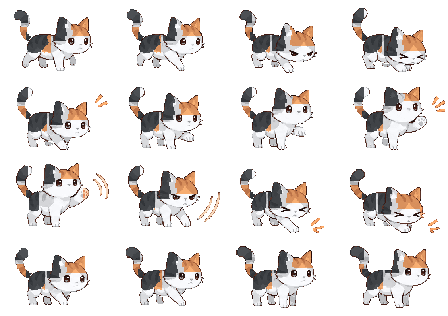
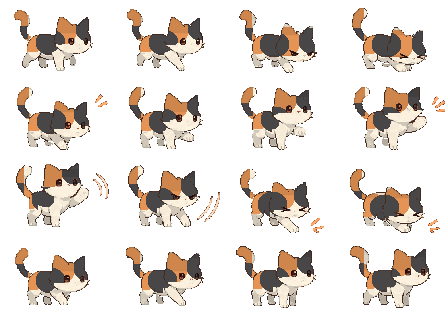
v2.5.0: individual jackpot reel locks and distinct coat patterns

diff --git a/assets/jackpot-motion.js b/assets/jackpot-motion.js
@@ -13,8 +13,8 @@ function tone(hz,offset,duration,volume=.045,type="triangle"){
  try{const t=context.currentTime+Math.max(0,offset),osc=context.createOscillator(),gain=context.createGain();osc.type=type;osc.frequency.value=hz;gain.gain.setValueAtTime(.0001,t);gain.gain.exponentialRampToValueAtTime(volume,t+.012);gain.gain.exponentialRampToValueAtTime(.0001,t+duration);osc.connect(gain);gain.connect(context.destination);osc.start(t);osc.stop(t+duration+.02);}catch{}
 }
 function beat(i){
- const notes=[392,494,587,698,880];
- tone(notes[i],0,.18,.042);tone(notes[i]*2,0,.12,.014,"sine");
+ const notes=[392,494,587,698,880,1046.5];
+ const note=notes[Math.min(i,notes.length-1)];tone(note,0,.23,.052);tone(note*2,0,.12,.014,"sine");
 }
 function fanfare(){
  // Original short synthesized flourish; no external audio or licensed recordings.
@@ -41,19 +41,23 @@ async function run({stage,windows,status,spin}){
  const frame=buildMarquee(stage),bulbs=[...frame.children];stage.classList.add("j-show");
  let overlay=null;
  try{
-  const timings=[360,320,270,235,210];
-  for(let i=0;i<timings.length;i++){
-    beat(i);
-    bulbs.forEach((bulb,j)=>bulb.classList.toggle("lit",j%3===i%3));
-    windows.forEach((w,j)=>w.classList.toggle("j-focus",j===Math.min(windows.length-1,Math.floor(i*windows.length/5))));
-    if(status)status.textContent="● ".repeat(i+1).trim();
-    await wait(reduced?90:timings[i]);
-  }
-  windows.forEach(w=>{w.classList.remove("j-focus");w.classList.add("j-spin");});
-  bulbs.forEach(b=>b.classList.add("lit"));
+  bulbs.forEach((bulb,j)=>bulb.classList.toggle("lit",j%3===0));
+  await wait(reduced?90:350);
+  windows.forEach(w=>w.classList.add("j-spin"));
   if(status)status.textContent="…";
-  await spin();
-  windows.forEach(w=>{w.classList.remove("j-spin","j-await");w.classList.add("j-won");});
+  const locked=new Set();
+  const onLock=i=>{
+    if(locked.has(i)||!windows[i])return;
+    locked.add(i);
+    windows[i].classList.remove("j-spin","j-await","j-focus");
+    windows[i].classList.add("j-won");
+    beat(i);
+    bulbs.forEach((bulb,j)=>bulb.classList.toggle("lit",locked.size===windows.length||j%3===i%3));
+    if(status)status.textContent="● ".repeat(locked.size).trim();
+  };
+  await spin(onLock);
+  windows.forEach((w,i)=>onLock(i));
+  await wait(reduced?90:260);
   if(status){status.classList.remove("j-count");status.classList.add("j-final-status");status.textContent="JACKPOT!";}
   fanfare();
   overlay=document.createElement("div");overlay.className="j-message";overlay.setAttribute("aria-hidden","true");const title=document.createElement("div");title.className="j-title";title.textContent="JACKPOT!";overlay.append(title);stage.append(overlay);

diff --git a/event-preview.html b/event-preview.html
@@ -3,6 +3,6 @@
 const stage=document.getElementById("stage"),slots=[...stage.querySelectorAll(".slot")],status=document.getElementById("status"),buttons=[...document.querySelectorAll(".actions button")],items=["백소정","핵밥","포람","탄포포","온뚝","레오펍"];
 const wait=ms=>new Promise(r=>setTimeout(r,ms));
 async function spin(finals,delay=0){await Promise.all(slots.map(async(s,i)=>{await wait(i*delay);for(let n=0;n<12;n++){s.textContent=items[(n+i*2)%items.length];await wait(100);}s.textContent=finals[i];}));}
-async function play(type){if(type==="jackpot")LunchJackpot.prime();buttons.forEach(b=>b.disabled=true);slots.forEach((s,i)=>{s.classList.remove("gold","j-won");s.textContent=items[i];});status.classList.remove("j-final-status");status.textContent="";try{if(type==="hamster")await LunchHamster.visit({stage,windows:slots,targetIndices:[1,3],onRun:async i=>{const slot=slots[i];for(let n=0;n<10;n++){slot.textContent=items[(n+i)%items.length];await wait(100);}slot.textContent=i===1?"레오펍":"미식당";}});else if(type==="jackpot"){await LunchJackpot.run({stage,windows:slots,status,spin:()=>spin(slots.map(()=>"포람"))});}else await LunchCat.visit(stage,slots[0],true,()=>{slots[0].textContent="레오펍";},{variant:document.getElementById("style").value});}catch(e){status.textContent="모션을 불러오지 못했습니다.";}finally{buttons.forEach(b=>b.disabled=false);}}
+async function play(type){if(type==="jackpot")LunchJackpot.prime();buttons.forEach(b=>b.disabled=true);slots.forEach((s,i)=>{s.classList.remove("gold","j-won");s.textContent=items[i];});status.classList.remove("j-final-status");status.textContent="";try{if(type==="hamster")await LunchHamster.visit({stage,windows:slots,targetIndices:[1,3],onRun:async i=>{const slot=slots[i];for(let n=0;n<10;n++){slot.textContent=items[(n+i)%items.length];await wait(100);}slot.textContent=i===1?"레오펍":"미식당";}});else if(type==="jackpot"){await LunchJackpot.run({stage,windows:slots,status,spin:async onLock=>{await Promise.all(slots.map(async(slot,i)=>{const duration=820+i*530,start=performance.now();let n=0;while(performance.now()-start<duration){slot.textContent=items[(n+++i)%items.length];await wait(75);}slot.textContent="포람";onLock(i);}));}});}else await LunchCat.visit(stage,slots[0],true,()=>{slots[0].textContent="레오펍";},{variant:document.getElementById("style").value});}catch(e){status.textContent="모션을 불러오지 못했습니다.";}finally{buttons.forEach(b=>b.disabled=false);}}
 for(const id of ["hamster","jackpot","cat"])document.getElementById(id).onclick=()=>play(id);
 </script></body></html>

diff --git a/index.html b/index.html
@@ -2863,20 +2863,16 @@
     async function runJackpot(pool, slotData, tracks, windows, status) {
       const winner=sample(pool,1)[0];
       if(!winner||slotData.length<3)return;
-      const spin=async()=>{
-        const targets=tracks.map(track=>({track,index:appendRerollItems(track,pool,winner),height:getSlotItemHeight(track)}));
+      const targets=tracks.map(track=>({track,index:appendRerollItems(track,pool,winner),height:getSlotItemHeight(track)}));
+      const spin=async(onLock=()=>{})=>{
         await Promise.all(targets.map(async({track,index,height},i)=>{
-          await animateTo(track,index*height,1180,"cubic-bezier(.13,.72,.19,1)");
+          await animateTo(track,index*height,820+i*530,"cubic-bezier(.16,.65,.23,1)");
           slotData[i].finalItem=winner;
+          onLock(i);
         }));
       };
-      if(window.LunchJackpot){
-        await window.LunchJackpot.run({stage:resultBox,windows,status,spin});
-      }else{
-        await spin();windows.forEach(w=>w.classList.add("jackpot-window"));
-        if(status){status.textContent="JACKPOT!";status.classList.add("jackpot-status");}
-        confetti();
-      }
+      if(window.LunchJackpot)await window.LunchJackpot.run({stage:resultBox,windows,status,spin});
+      else{await spin(i=>windows[i]?.classList.add("jackpot-window"));if(status)status.textContent="JACKPOT!";confetti();}
     }
 
     async function runCatSurprise(pool, slotData, tracks, windows, status) {
@@ -3383,6 +3379,6 @@
       document.head.appendChild(analyticsScript);
     }
   </script>
-  <footer style="position:fixed;bottom:8px;left:0;right:0;text-align:center;font-size:11px;color:#64748b;pointer-events:none">v2.4.0 · 2026.11.27</footer>
+  <footer style="position:fixed;bottom:8px;left:0;right:0;text-align:center;font-size:11px;color:#64748b;pointer-events:none">v2.5.0 · 2026.11.27</footer>
 </body>
 </html>

diff --git a/CHANGELOG.md b/CHANGELOG.md
@@ -1,5 +1,10 @@
 # Changelog
 
+## v2.5.0 — 2026-11-27
+- Jackpot reels stop individually from top to bottom, with an ascending chime at each lock and fanfare only after the final match.
+- Revised three coat sprites with unstriped tuxedo and patch-based calico, and cooler tabby markings; original 16-frame motion retained.
+- Preview uses the same lock sequence. No probability or room configuration changes.
+
 ## v2.4.0 — 2026-11-27
 - Added shared casino-inspired jackpot buildup: five rising original synthesized chimes, sequential gold slot lights, synchronized reels, gold marquee and celebratory burst.
 - Added browser-local sound toggle; audio unlocks on user interaction, and unavailable audio never blocks the draw. Reduced-motion fallback included.
